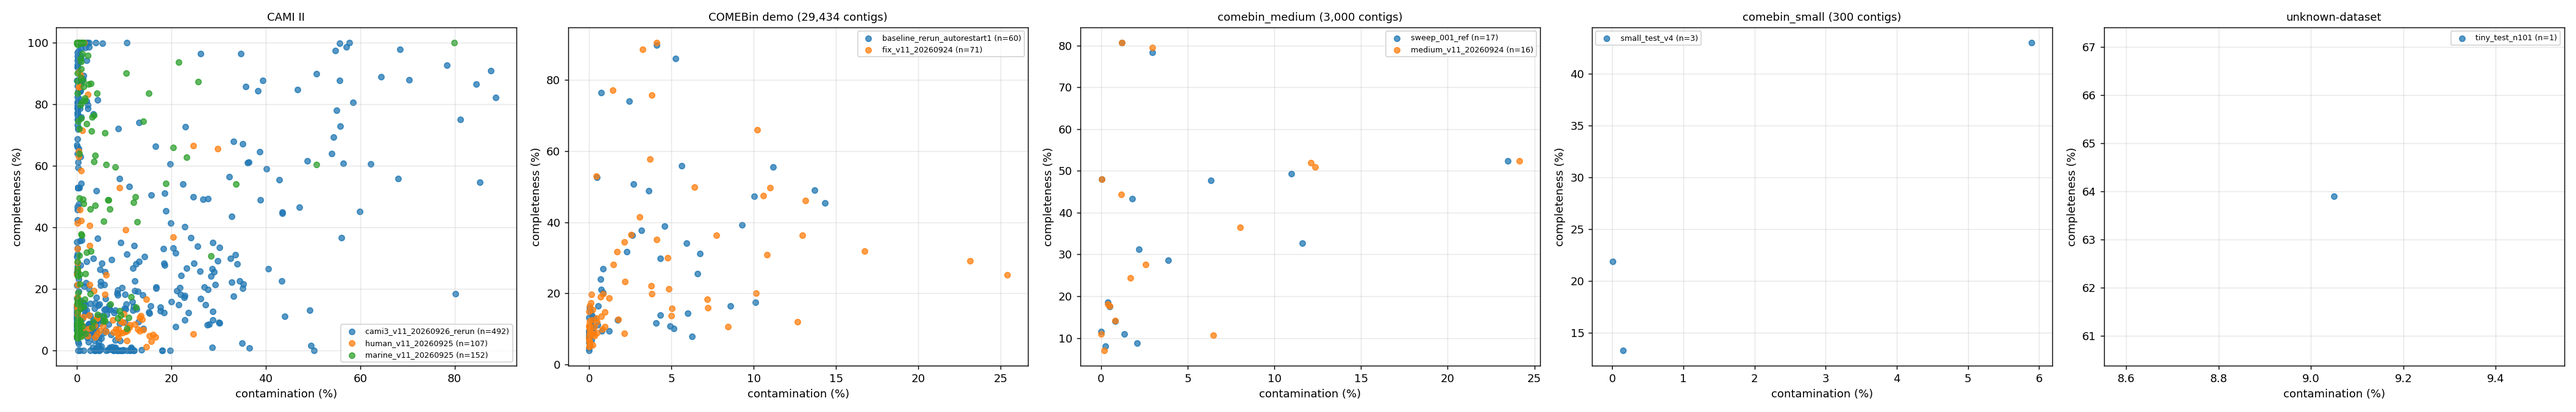
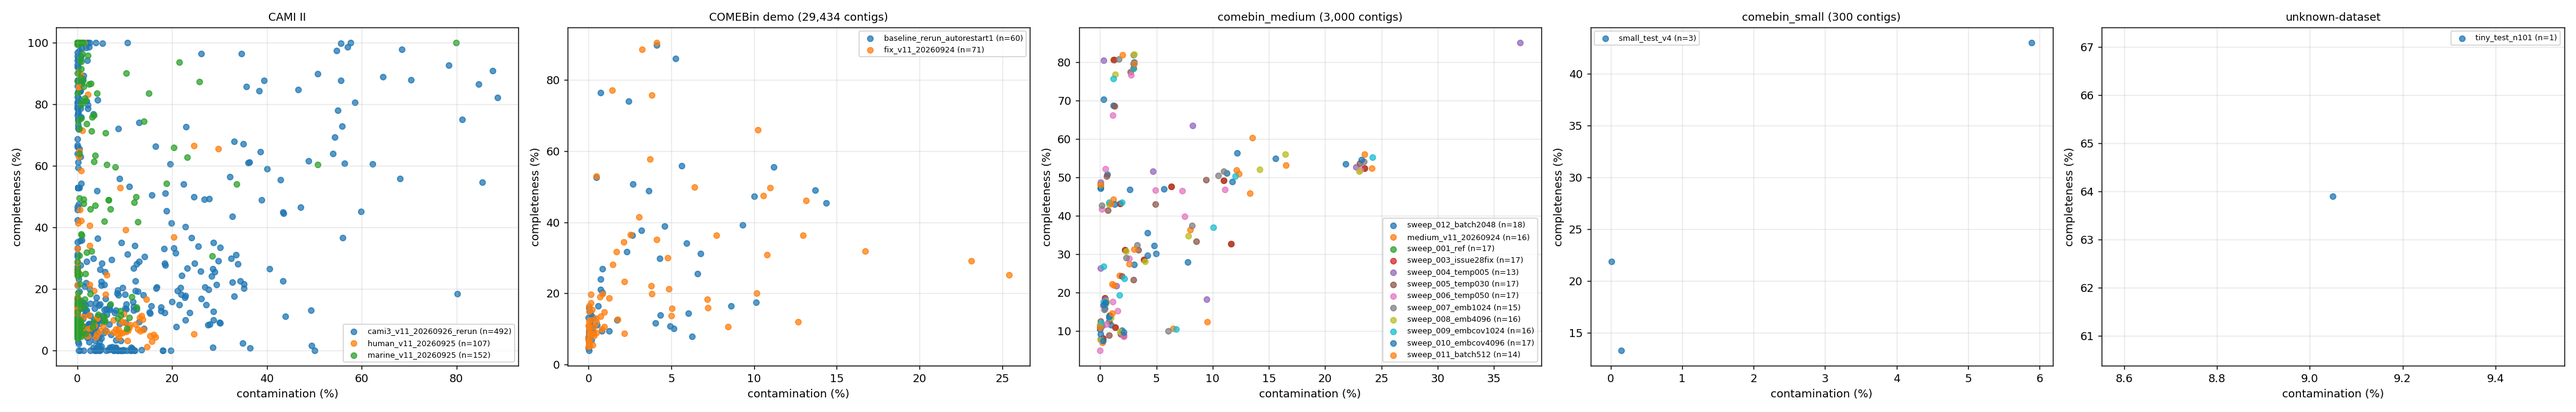
sweep medium grid: add results from cells 1-12 + update figures (cells 13-24 pending)

diff --git a/results/sweep_rankings.md b/results/sweep_rankings.md
@@ -1,0 +1,7 @@
+# Issue #25 sweep — medium-dataset ranking
+
+Rule: bin stats first (CheckM2 comp/cont + HQ/MQ + F1 = 2·c·p/(c+p), p = 100−cont), then wall time tiebreak. Only the winning parameter set advances to CAMI II/III human.
+
+| Rank | Cell | Commit | Seed | Params (non-ref) | Wall | Bins | CheckM2 comp | CheckM2 cont | HQ / MQ | F1 | CheckM1 comp / cont |
+|---|---|---|---|---|---|---|---|---|---|---|---|
+| 1 | `sweep_001_ref` | `95f5ea8` | 42 | reference (defaults) | 2827 | 17 | 34.22 | 4.11 | 0 / 2 | 50.44 | 32.00 / 5.31 |
